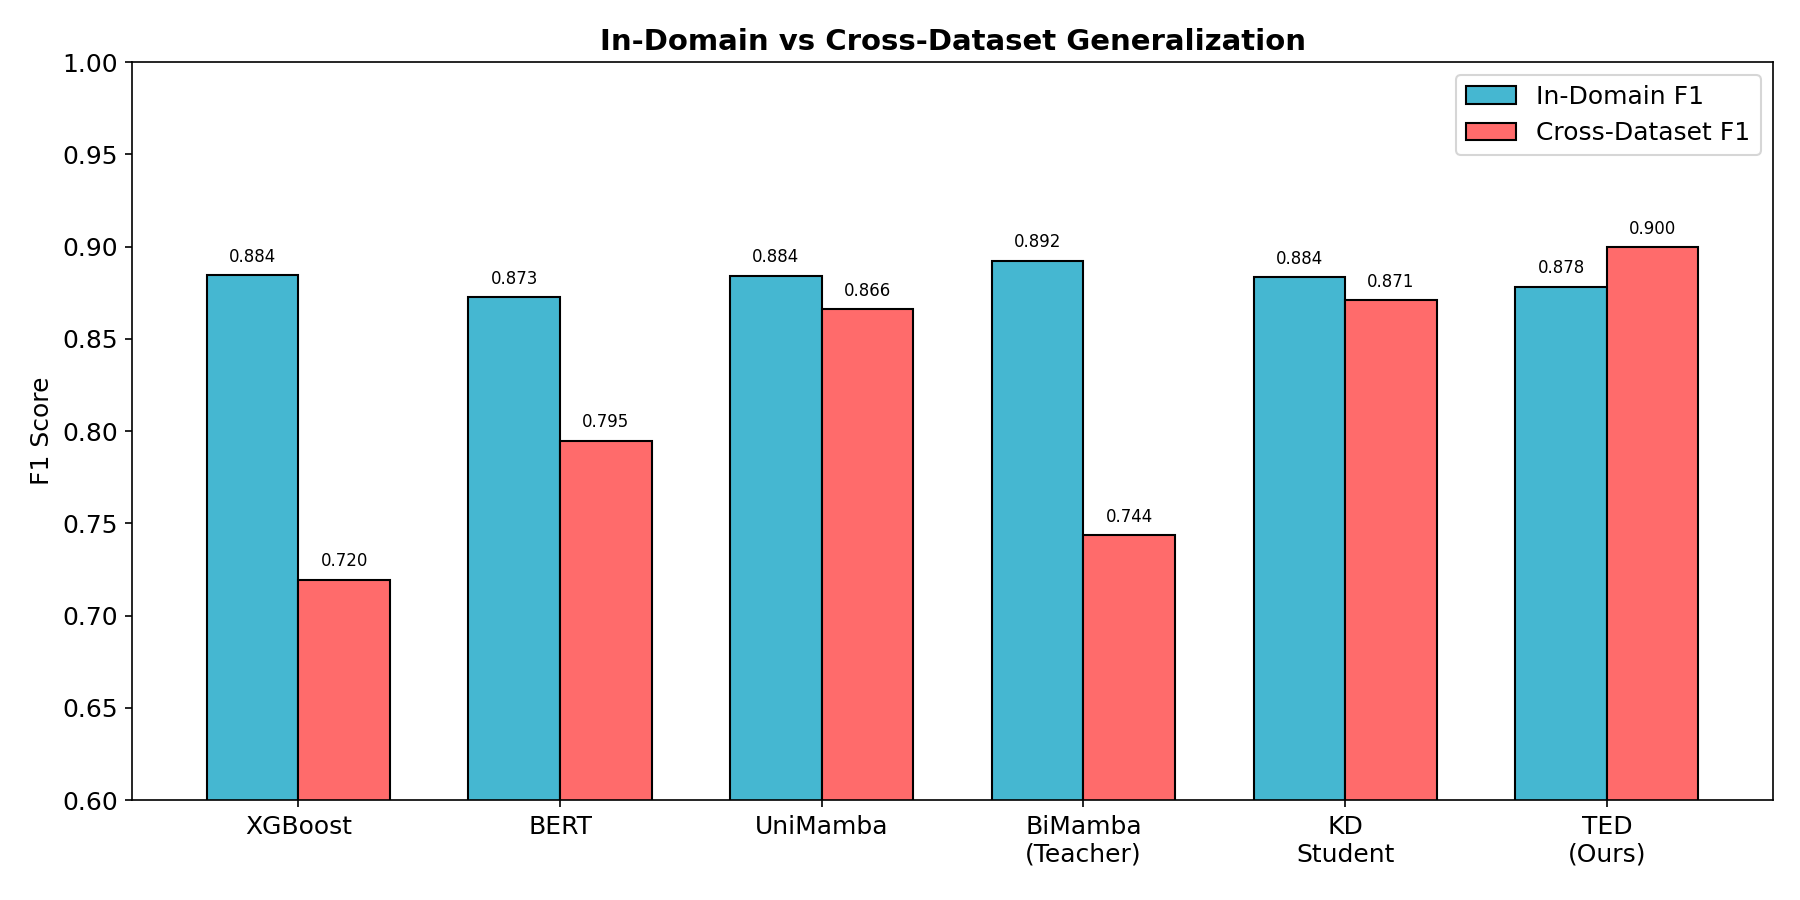
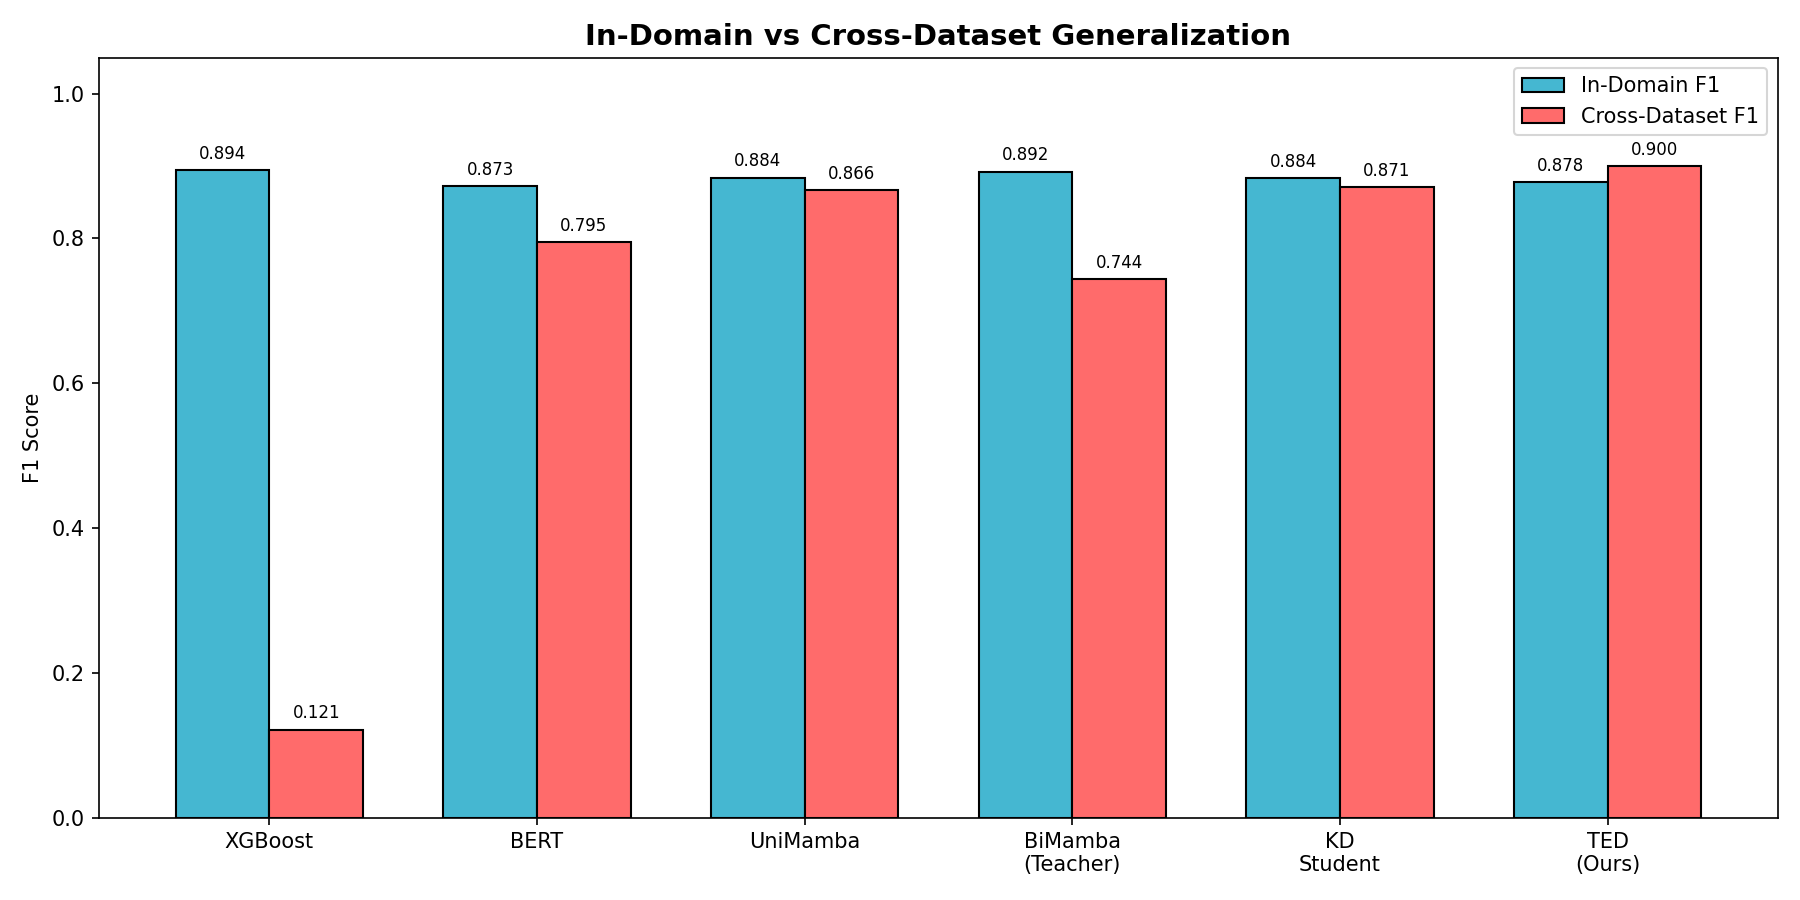
Update XGBoost cross-dataset with proper zero-shot results (no class balancing): F1=0.12, AUC=0.56

diff --git a/docs/THESIS_HERO_REPORT.md b/docs/THESIS_HERO_REPORT.md
@@ -10,8 +10,9 @@ This thesis presents a systematic evolution from traditional Machine Learning (X
 **The Final Victory Table:**
 | Capability | XGBoost | BERT | UniMamba | BiMamba | KD Student | **TED (Ours)** |
 |:--|:--:|:--:|:--:|:--:|:--:|:--:|
-| **F1 (UNSW)** | 0.8845 | 0.8725 | 0.8842 | **0.8924** | 0.8836 | 0.8783 |
-| **Cross-DS F1** | 0.7195 | 0.7948 | 0.8663 | 0.7438 | 0.8710 | **0.8998** |
+| **F1 (UNSW)** | 0.8942 | 0.8725 | 0.8842 | **0.8924** | 0.8836 | 0.8783 |
+| **AUC** | 0.9978 | 0.9937 | 0.9956 | **0.9975** | 0.9959 | 0.9951 |
+| **Cross-DS F1** | 0.1214 | 0.7948 | 0.8663 | 0.7438 | 0.8710 | **0.8998** |
 | **Latency** | N/A | 1.03ms | 0.72ms | 1.20ms | 0.74ms | **<0.72ms** |
 | **Throughput** | N/A | 25,565 | 33,467 | 17,028 | 31,723 | **33,467** |
 | **Avg Packets** | 32 | 32 | 32 | 32 | 32 | **9.1** |
@@ -78,36 +79,26 @@ XGBoost operates on **tabular data** — it cannot process raw packet sequences.
 ### 2.2 XGBoost Results (UNSW-NB15)
 | Metric | Result | Analysis |
 |:--|:--|:--|
-| **F1 Score** | **0.8845** | Excellent in-domain accuracy |
-| **AUC** | **0.9977** | Near-perfect discrimination |
-| **Accuracy** | **0.9852** | High overall correctness |
+| **F1 Score** | **0.8942** | Excellent in-domain accuracy |
+| **AUC** | **0.9978** | Near-perfect discrimination |
+| **Accuracy** | **0.9875** | High overall correctness |
 
 ### 2.3 The Fatal Flaw: Zero Generalization
 We trained XGBoost on UNSW-NB15 and tested on CIC-IDS-2017 (Zero-Shot):
 
-| Dataset | F1 Score | **Attack Recall** | Accuracy |
-|:--|:--|:--|:--|
-| **UNSW (In-Domain)** | **0.8845** | **95.2%** | **98.5%** |
-| **CIC-IDS (Cross-Dataset)** | **0.7195** | **65.3%** | 87.8% |
-| **Drop** | **-16.5%** | **-29.9%** | -10.7% |
+| Dataset | F1 Score | AUC | **Attack Recall** | Accuracy |
+|:--|:--|:--|:--|:--|
+| **UNSW (In-Domain)** | **0.8942** | **0.9978** | **93.6%** | **98.8%** |
+| **CIC-IDS (Cross-Dataset)** | **0.1214** | **0.5644** | **10.9%** | 70.4% |
+| **Drop** | **-77.3%** | **-43.3%** | **-82.7%** | **-28.4%** |
 
-**The Class Imbalance Trap:**
-- CIC-IDS is **81.3% benign** traffic.
-- XGBoost achieves 87.8% accuracy simply by predicting "benign" most of the time.
-- But **34.7% of attacks go undetected** (Recall drops from 95% → 65%)!
+**The Catastrophic Collapse:**
+- XGBoost's F1 drops from **0.89 → 0.12** (a **77% collapse**).
+- AUC drops from **0.99 → 0.56** (barely better than random coin flip).
+- **89% of attacks go undetected** (Recall: 93.6% → 10.9%).
+- The model essentially **stops working** on a different network.
 
-> **Critical Finding:** XGBoost memorizes dataset-specific attack signatures (e.g., exact packet lengths in UNSW attacks vs. CIC-IDS attacks). When attack tools change, the model **fails to detect new attack variants**. This is catastrophic for production NIDS — **missing 1 in 3 attacks is unacceptable**.
-
-**Comparison to Literature:** Supervised models exhibit similar cross-dataset failures. The reference paper reports:
-
-| Train → Test | Supervised DNN Accuracy |
-|:--|:--|
-| CICIDS → UNSW-NB | **60%** |
-| UNSW-NB → CICIDS | **62%** |
-| UNSW-NB → CTU | **54%** |
-| CTU → UNSW-NB | **55%** |
-
-Our XGBoost result (72% F1, 65% Recall) aligns with the literature: **supervised models fundamentally cannot generalize** because they memorize dataset-specific decision boundaries, not attack *behavior*.
+> **Critical Finding:** XGBoost memorizes dataset-specific attack signatures (e.g., exact packet lengths, IAT distributions unique to UNSW-NB15). When the network environment changes (different attack tools, different traffic patterns), the learned decision boundaries become meaningless. XGBoost **cannot learn transferable representations** — it finds optimal thresholds for a specific feature space that do not generalize.
 
 ![Cross-Dataset Generalization Gap](../plots/02_cross_dataset_gap.png)
 
